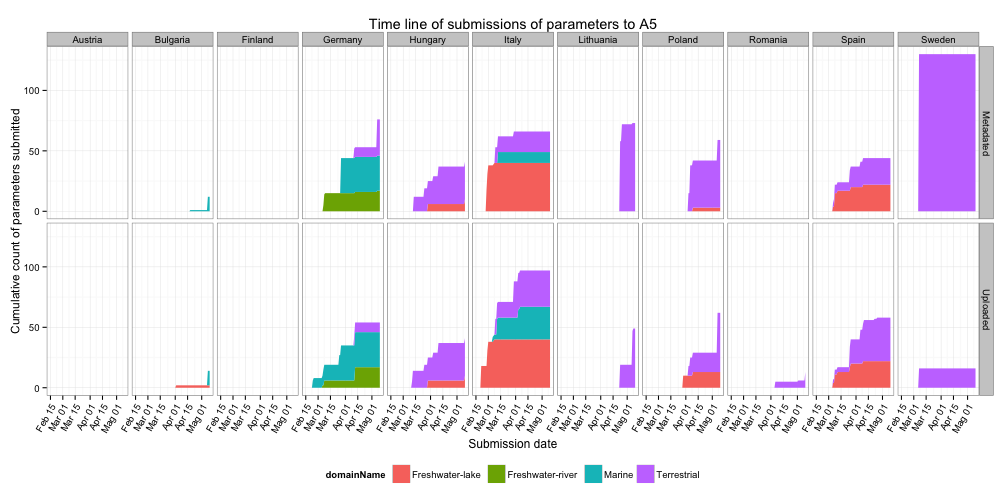
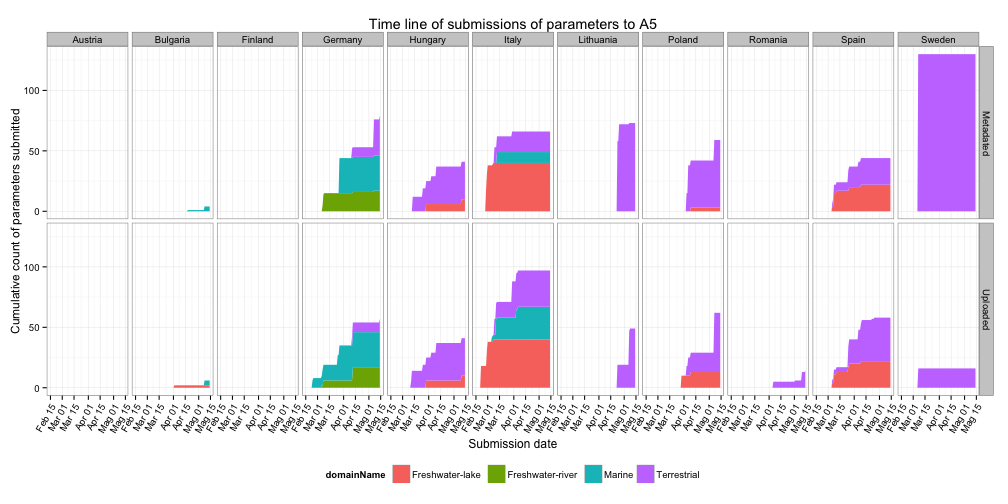
publishing deck

diff --git a/index.html b/index.html
@@ -48,9 +48,9 @@
   </hgroup>
   <article>
     <ul>
-<li>Last updated <code>2013-05-10</code></li>
+<li>Last updated <code>2013-05-14</code></li>
 <li>Deadline for data submission: <code>2013-03-08</code></li>
-<li>Days to deadline: <code>-63</code></li>
+<li>Days to deadline: <code>-67</code></li>
 <li>Total number of sites sampled in 2012: <code>61</code>; sub-sites: <code>65</code></li>
 </ul>
 
@@ -58,13 +58,13 @@
 
 <!-- html table generated in R 3.0.0 by xtable 1.7-1 package -->
 
-<!-- Fri May 10 15:43:09 2013 -->
+<!-- Tue May 14 10:54:40 2013 -->
 
 <TABLE border=1>
 <TR> <TH>  </TH> <TH> No. uploaded </TH> <TH> No. metadated </TH> <TH> Total no. </TH> <TH> Upload ratio </TH> <TH> Metadata ratio </TH>  </TR>
-  <TR> <TD align="right"> Year2012 </TD> <TD align="right"> 319 </TD> <TD align="right"> 397 </TD> <TD align="right"> 2025 </TD> <TD align="right"> 0.16 </TD> <TD align="right"> 0.20 </TD> </TR>
+  <TR> <TD align="right"> Year2012 </TD> <TD align="right"> 315 </TD> <TD align="right"> 392 </TD> <TD align="right"> 2025 </TD> <TD align="right"> 0.16 </TD> <TD align="right"> 0.19 </TD> </TR>
   <TR> <TD align="right"> Year2011 </TD> <TD align="right">  85 </TD> <TD align="right"> 104 </TD> <TD align="right"> 270 </TD> <TD align="right"> 0.31 </TD> <TD align="right"> 0.39 </TD> </TR>
-  <TR> <TD align="right"> Sum </TD> <TD align="right"> 404 </TD> <TD align="right"> 501 </TD> <TD align="right"> 2295 </TD> <TD align="right"> 0.18 </TD> <TD align="right"> 0.22 </TD> </TR>
+  <TR> <TD align="right"> Sum </TD> <TD align="right"> 400 </TD> <TD align="right"> 496 </TD> <TD align="right"> 2295 </TD> <TD align="right"> 0.17 </TD> <TD align="right"> 0.22 </TD> </TR>
    </TABLE>
 
   </article>

diff --git a/index.md b/index.md
@@ -26,19 +26,19 @@ github:
 
 ## State of uploading process
 
-* Last updated ``2013-05-10``
+* Last updated ``2013-05-14``
 * Deadline for data submission: `2013-03-08`
-* Days to deadline: ``-63``
+* Days to deadline: ``-67``
 * Total number of sites sampled in 2012: ``61``; sub-sites: ``65``
 
 Parameters uploaded and metadated:
 <!-- html table generated in R 3.0.0 by xtable 1.7-1 package -->
-<!-- Fri May 10 15:43:09 2013 -->
+<!-- Tue May 14 10:54:40 2013 -->
 <TABLE border=1>
 <TR> <TH>  </TH> <TH> No. uploaded </TH> <TH> No. metadated </TH> <TH> Total no. </TH> <TH> Upload ratio </TH> <TH> Metadata ratio </TH>  </TR>
-  <TR> <TD align="right"> Year2012 </TD> <TD align="right"> 319 </TD> <TD align="right"> 397 </TD> <TD align="right"> 2025 </TD> <TD align="right"> 0.16 </TD> <TD align="right"> 0.20 </TD> </TR>
+  <TR> <TD align="right"> Year2012 </TD> <TD align="right"> 315 </TD> <TD align="right"> 392 </TD> <TD align="right"> 2025 </TD> <TD align="right"> 0.16 </TD> <TD align="right"> 0.19 </TD> </TR>
   <TR> <TD align="right"> Year2011 </TD> <TD align="right">  85 </TD> <TD align="right"> 104 </TD> <TD align="right"> 270 </TD> <TD align="right"> 0.31 </TD> <TD align="right"> 0.39 </TD> </TR>
-  <TR> <TD align="right"> Sum </TD> <TD align="right"> 404 </TD> <TD align="right"> 501 </TD> <TD align="right"> 2295 </TD> <TD align="right"> 0.18 </TD> <TD align="right"> 0.22 </TD> </TR>
+  <TR> <TD align="right"> Sum </TD> <TD align="right"> 400 </TD> <TD align="right"> 496 </TD> <TD align="right"> 2295 </TD> <TD align="right"> 0.17 </TD> <TD align="right"> 0.22 </TD> </TR>
    </TABLE>
 
 
